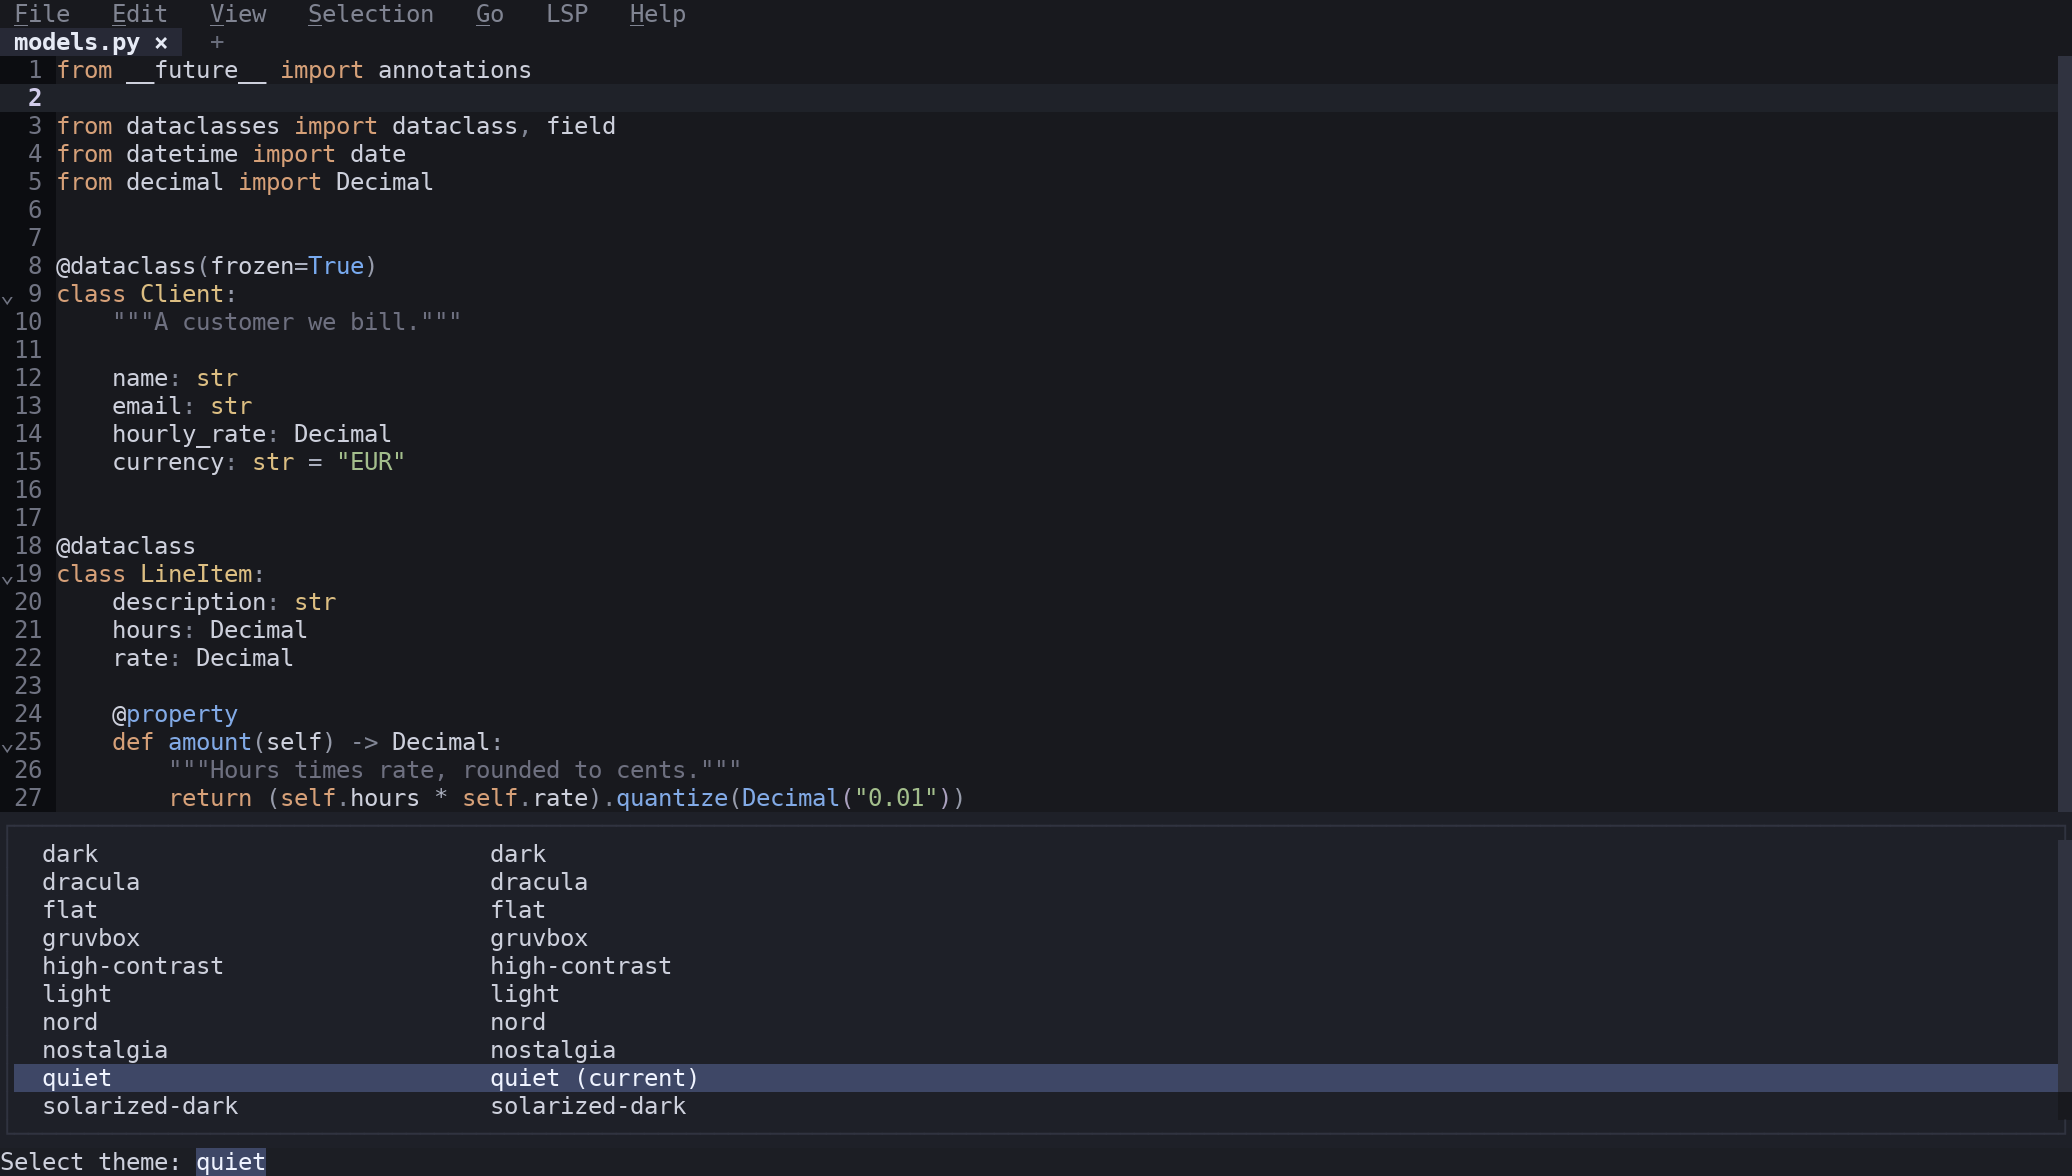
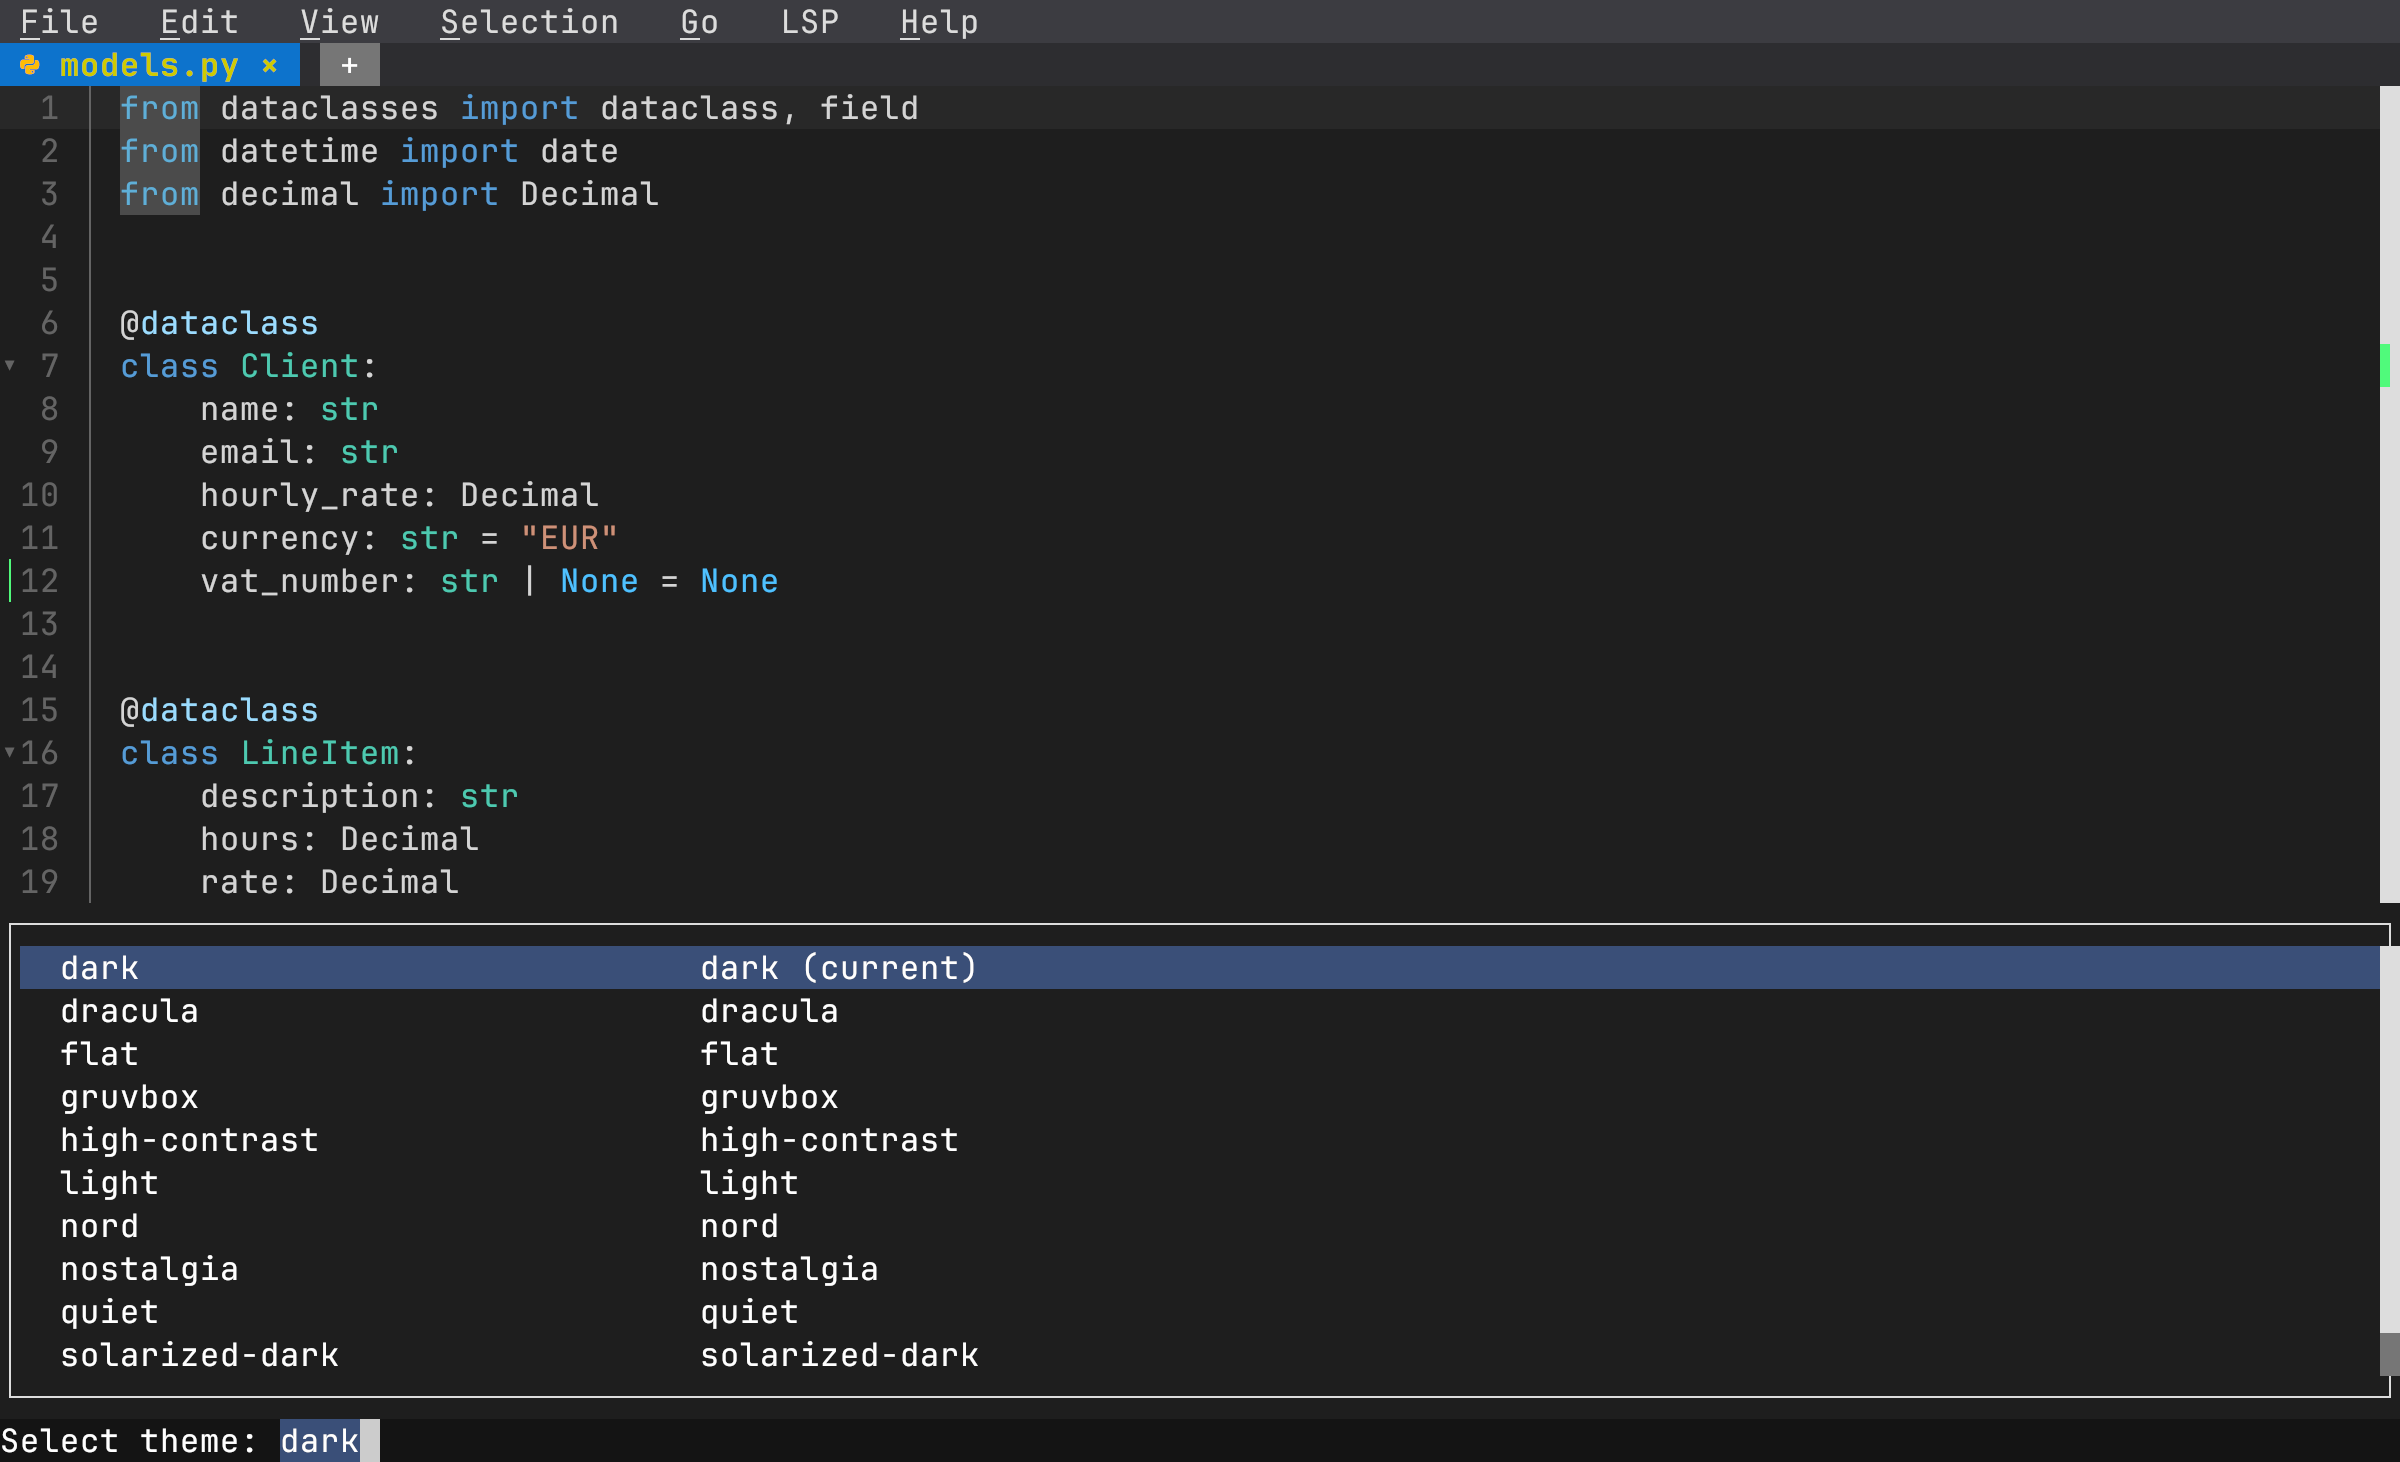
docs: retake core editor screenshots in kitty
Command palette, compare, git log and Review Diff, live grep, settings,
terminal split, theme editor and picker, and the Welcome screen.

Claude-Session: https://claude.ai/code/session_01LCVsboQkJrfaiWoRDPBoox

Changed region(s): [[0.0, 0.0612, 1.0, 1.0], [0.0, 0.0, 1.0, 0.1837]]

diff --git a/scripts/docs-screenshots/shots/scripting-init.ts b/scripts/docs-screenshots/shots/scripting-init.ts
@@ -6,3 +6,16 @@ registerHandler("docs_script_shell", () => {
   void orch.runAgent({ agent: "", teach: false, wait: false });
 });
 editor.registerCommand("Docs: Script Shell", "Open a terminal that may script the editor", "docs_script_shell");
+
+// "Docs: Agent Workspaces": the dock the Scripting page shows after "start
+// another agent in a new workspace" — two agents at work, a plain shell, and
+// this checkout. claude and codex are the fake agents on PATH.
+registerHandler("docs_agent_workspaces", () => void (async () => {
+  const orch = editor.getPluginApi("orchestrator") as any;
+  const R = editor.getCwd();
+  const mk = (o: Record<string, unknown>) => orch.newWorkspace({ path: R, teach: false, wait: false, ...o });
+  await mk({ name: "fix-flaky-drain", newBranch: "fix/flaky-drain", agent: "claude" });
+  await mk({ name: "flaky-repro", newBranch: "flaky-repro", agent: "codex" });
+  await mk({ name: "review", newBranch: "review", agent: "" });
+})());
+editor.registerCommand("Docs: Agent Workspaces", "Stage the Scripting page's dock", "docs_agent_workspaces");

diff --git a/scripts/docs-screenshots/shots/orchestrator.py b/scripts/docs-screenshots/shots/orchestrator.py
@@ -31,10 +31,13 @@ sleep 100000
     "bench": """
 sleep 2; while true; do echo "GET /items  p95 $((40 + RANDOM % 20))ms"; sleep 0.5; done
 """,
-    # Only so the New Workspace dialog offers Claude, as it would where it is
-    # installed. No shot launches it.
+    # Stand-ins for Claude Code and Codex: they keep printing, so they read as
+    # working. Also what makes the New Workspace dialog offer them.
     "claude": """
-echo "claude stand-in for docs screenshots"; sleep 100000
+sleep 2; while true; do echo "Reading src/queue.rs ($RANDOM)"; sleep 0.6; done
+""",
+    "codex": """
+sleep 2; while true; do echo "running cargo test drain ... attempt $RANDOM"; sleep 0.7; done
 """,
     # Works, changes a file, says it is done and goes quiet: "Ready to review".
     "run-tests": """
@@ -111,13 +114,24 @@ SHOTS = [
             ("shot", "workboard-inbox"), ("key", "4"), ("settle",), ("shot", "workboard-board")],
     },
     {
-        "id": "scripting", **FRESH, **WIDE, "args": ["crates/fresh-editor/src/server/command_access.rs"],
+        "id": "scripting", **FRESH, "cols": 150, "rows": 40, "args": ["crates/fresh-editor/src/server/command_access.rs"],
         "steps": [("wait", "Capability")] + script_shell
         + sh("fresh --cmd script run review.ts") + [("wait", '["command_access.rs"'), ("settle",),
                                                      ("shot", "scripting-layout-after")]
         + sh("clear") + sh(DESCRIBE) + [("wait", '"terminal"]'), ("settle",)]
         + sh(JUMP) + [("wait", "\ntrue"), ("settle",), ("dump",), ("shot", "scripting-cmd-run")]
-        + sh("clear") + sh(TOUR) + [("wait", "Step 1 of 3"), ("settle",), ("key", "n"), ("settle",), ("dump",),
+        # openFileInSplit moved focus to the editor pane: click back into the terminal.
+        + [("click", 30, 33), ("settle",)] + sh("clear") + sh(TOUR) + [("wait", "Step 1 of 3"), ("settle",), ("key", "n"), ("settle",), ("dump",),
                                     ("shot", "scripting-tour-handoff")],
+    },
+    {
+        "id": "scripting-run-agent-dialog", **FRESH, "cols": 140, "rows": 46, "args": ["crates/fresh-editor/src/main.rs"],
+        "steps": [("wait", "use "), ("settle",)] + palette("Orchestrator: New Workspace") + [
+            ("sleep", 3), ("settle",), ("click_text", "Save as project"), ("settle",),
+            ("click_text", "[   Add   ]"), ("settle",), ("click_text", "Choose an agent"), ("settle",),
+            ("click_text", "claude   "), ("settle",), ("click_text", "Describe the task"), ("settle",),
+            ("text", "Fix the flaky drain() test"), ("settle",), ("click_text", "Details"), ("settle",),
+            ("click_text", "fresh-1", 1), ("key", "End", *["BackSpace"] * 8), ("text", "fix/flaky-drain"),
+            ("settle",), ("dump",), ("shot", "scripting-run-agent-dialog")],
     },
 ]

diff --git a/scripts/docs-screenshots/shots/core.py b/scripts/docs-screenshots/shots/core.py
@@ -38,7 +38,7 @@ SHOTS = [
         ("wait", "#"), ("text", "PS1='\\[\\e[32m\\]dev\\[\\e[0m\\]:\\[\\e[34m\\]\\W\\[\\e[0m\\]$ '; clear\r"), ("settle",),
         ("text", "git status -s\r"), ("settle",),
         ("text", "git --no-pager diff -U1 invoicing/models.py\r"), ("settle",),
-        ("text", "python3 -m py_compile invoicing/models.py && echo compiles\r"), ("sleep", 1),
+        ("text", "python3 -m py_compile invoicing/models.py && echo ok\r"), ("sleep", 1),
         ("shot", "terminal-split")], "cols": 140},
     {"id": "search-live-grep", "args": ["invoicing/cli.py"], "steps": [("wait", "argparse")] + palette("live grep")
         + [("text", "open_only"), ("wait", "test_report.py:28"), ("key", "Down"), ("sleep", 2), ("settle",), ("shot", "search-live-grep")], "cols": 150, "rows": 36},
@@ -60,7 +60,7 @@ SHOTS = [
     # picker's key hints and the Cursor Style dropdown are not clipped.
     {"id": "settings-status-bar", "args": ["invoicing/models.py"], "cols": 132, "rows": 34,
      "steps": [("wait", "class Client")] + settings_jump("left") + [("crop_frame", "Settings ["), ("key", "Return"), ("wait", "Git: branch"), ("settle",),
-        ("key", "Down", "Down", "Down", "Down"), ("settle",), ("key", "shift+Right"), ("settle",), ("shot", "settings-status-bar")]},
+        ("click_text", "Git: branch"), ("settle",), ("key", "shift+Right"), ("settle",), ("shot", "settings-status-bar")]},
     {"id": "settings-editor", "args": ["invoicing/models.py"], "cols": 132, "rows": 34,
      "steps": [("wait", "class Client")] + settings_jump("cursor style") + [("crop_frame", "Settings ["), ("shot", "settings-editor")]},
 ]

diff --git a/docs/features/themes.md b/docs/features/themes.md
@@ -54,7 +54,7 @@ Fresh ships twelve built-in color themes — the same project in each, below (cl
 
 Use the command palette (`Ctrl+P`) and search for "Select Theme" to choose from available themes. Built-in themes and user themes are both shown.
 
-![The Select Theme prompt listing the built-in themes, with quiet marked as current](/images/themes-select-theme.png)
+![The Select Theme prompt listing the built-in themes, with dark marked as current](/images/themes-select-theme.png)
 
 The theme is also a setting: **Settings → General → Theme**, a dropdown of every installed theme.
 
